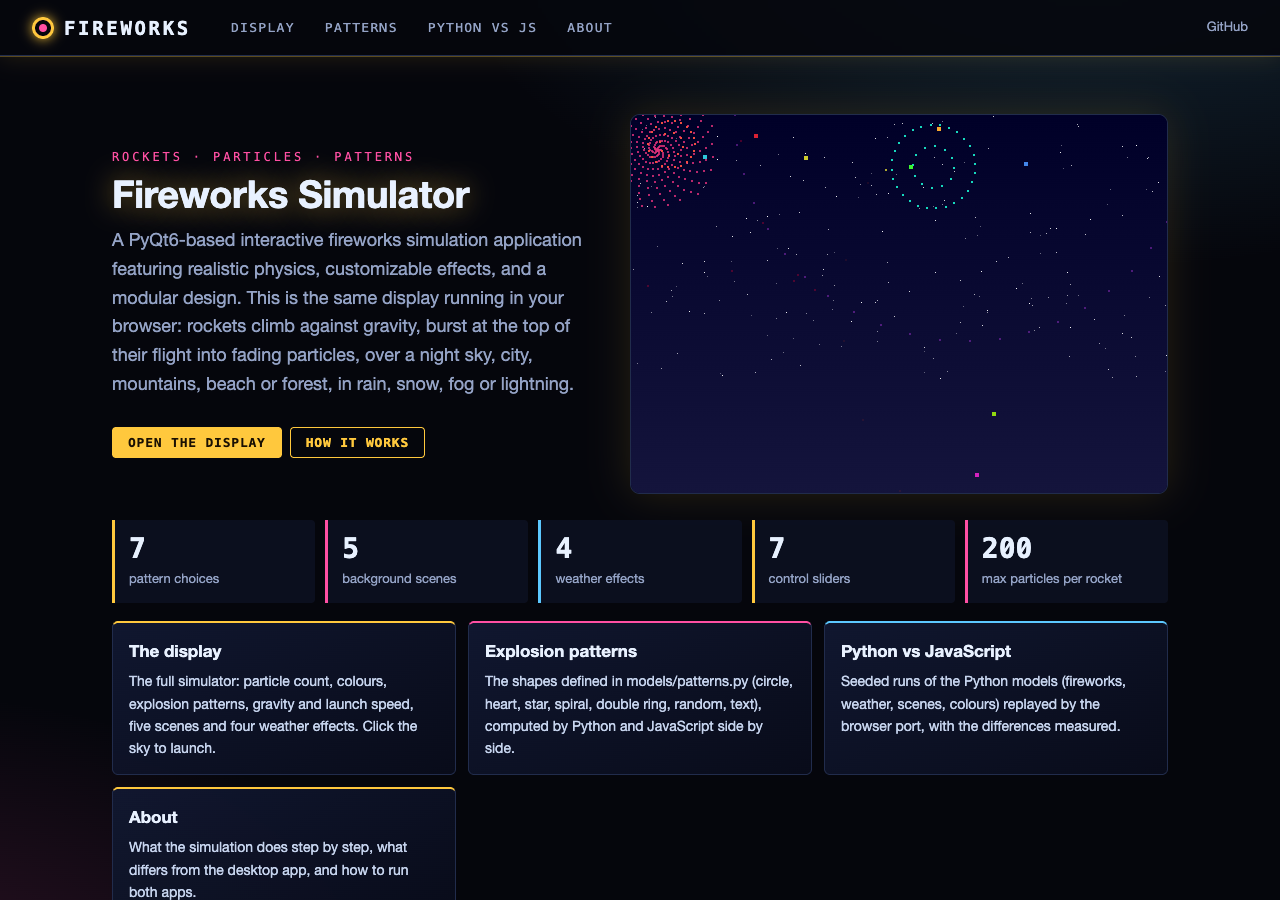
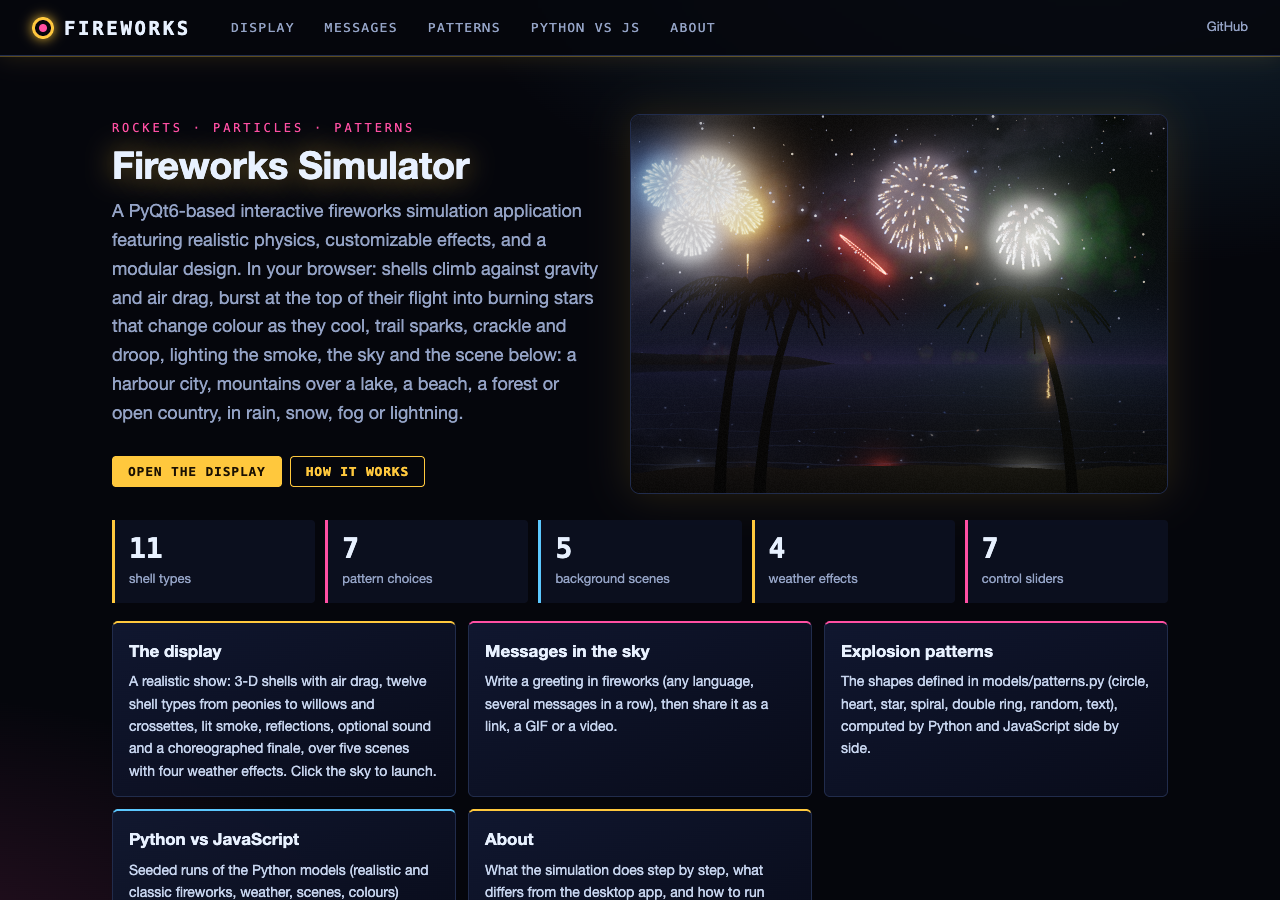
Docs: README (realistic display, messages, exports, desktop renderers), INTERFACE, session log, screenshots and sample GIF

diff --git a/web/static/home.js b/web/static/home.js
@@ -3,7 +3,7 @@ import { route, api, app, list, esc, onLeave } from './core.js';
 import { RealView, reducedMotion } from './real_view.js';
 
 const DOORS = [
-  ['#/show', 'The display', 'A realistic show: 3-D shells with air drag, twelve shell types from peonies to willows and crossettes, lit smoke, reflections, optional sound and a choreographed finale, over five scenes with four weather effects. Click the sky to launch.', 'a'],
+  ['#/show', 'The display', 'A realistic show: 3-D shells with air drag, eleven shell types (plus finale salutes) from peonies to willows and crossettes, lit smoke, reflections, optional sound and a choreographed finale, over five scenes with four weather effects. Click the sky to launch.', 'a'],
   ['#/messages', 'Messages in the sky', 'Write a greeting in fireworks (any language, several messages in a row), then share it as a link, a GIF or a video.', 'b'],
   ['#/patterns', 'Explosion patterns', 'The shapes defined in models/patterns.py (circle, heart, star, spiral, double ring, random, text), computed by Python and JavaScript side by side.', 'b'],
   ['#/verify', 'Python vs JavaScript', 'Seeded runs of the Python models (realistic and classic fireworks, weather, scenes, colours) replayed by the browser, with the differences measured.', 'c'],

diff --git a/INTERFACE.md b/INTERFACE.md
@@ -8,18 +8,28 @@ Flat repo (modules import each other absolutely, e.g. `from models.particle impo
 |------|---------|-----------|
 | `main.py` | Entry point: QApplication, main window | `main()` |
 | `config.py` | Physics constants and window settings (Qt-free at import; QColor made lazily) | `FireworkConfig`, `DisplayConfig`, `DEFAULT_FIREWORK_RGB`, `DEFAULT_BACKGROUND_RGB`, `DEFAULT_LAUNCH_SPEED` |
-| `ui_specs.py` | Qt-free control lists and slider specs, shared by `gui/controls.py` and `web/app.py` | `PATTERNS`, `BACKGROUNDS`, `WEATHER`, `SliderSpec`, `SLIDERS` |
+| `ui_specs.py` | Qt-free control lists and slider specs, shared by `gui/controls.py` and `web/app.py` | `PATTERNS`, `BACKGROUNDS`, `WEATHER`, `RENDERERS`, `SHELL_TYPES`, `SliderSpec`, `SLIDERS` |
 | `models/particle.py` | One spark: velocity, gravity, 100-frame fade | `Particle` |
 | `models/firework.py` | Rocket that climbs and bursts at its apex (gravity, launch speed, pattern) | `Firework` |
 | `models/patterns.py` | Explosion shapes (one burst particle per point, `Firework._explode_pattern`) | `CirclePattern`, `HeartPattern`, `StarPattern`, `SpiralPattern`, `DoubleRingPattern`, `RandomPattern`, `TextPattern` |
+| `models/pyro.py` | Realistic engine (Qt-free): 3-D shells/stars in metres, gravity + quadratic drag, tail sparks, crackle, crossette splits, events; camera geometry | `Sim`, `Star`, `sphere_dirs()`, `DT`, `G`, `FOCAL` |
+| `models/shell_types.py` | Shell recipes and bursts: peony ... multi-break, salute, pattern, message | `TYPES`, `LABELS`, `make_recipe()`, `burst()` |
+| `models/director.py` | Launch schedule: random auto launch, ~40 s finale programme, message shows | `Director`, `finale_cues()` |
+| `models/pyro_colors.py` | Pyrotechnic palette; star colour/brightness over its life (ignition flash, cooling ember, strobe, glitter) | `PALETTE`, `pick_color()`, `star_rgb()` |
 | `models/glyphs.py` | 5 x 7 dot-matrix glyphs A-Z, 0-9 for `TextPattern` (also generated to `web/static/fw_glyphs.js`) | `GLYPHS`, `glyph_points()` |
 | `effects/weather.py` | Rain, snow, fog, lightning (update + Qt drawing) | `RainEffect`, `SnowEffect`, `FogEffect`, `FogLayer`, `LightningEffect`, `LightningBolt` |
 | `effects/backgrounds.py` | Night sky, cityscape, beach, forest scenes | `NightSkyBackground`, `CityscapeBackground`, `BeachBackground`, `ForestBackground` |
 | `effects/mountains.py` | Mountain ranges with snow caps | `MountainsBackground` |
 | `effects/particle_effects.py` | Smoke particles (not used by the app) | `SmokeEffect` |
-| `gui/canvas.py` | Display widget: 60 fps timer, spawning, painting | `FireworksCanvas` |
-| `gui/controls.py` | Control panel (signals) built from `ui_specs` | `ControlPanel` |
-| `gui/main_window.py` | Main window, detachable tabs, menus, QSettings, signal wiring | `FireworksApp`, `DetachableTabWidget` |
+| `gui/canvas.py` | Display widget: 60 fps timer, spawning, painting; `renderer` "Classic" (constructor default) or "Realistic" | `FireworksCanvas` |
+| `gui/canvas_real.py` | Realistic side of the canvas (mixin): settings → RealShow, click launch, finale, messages, `paint_real` | `RealisticMixin`, `TYPE_OF_LABEL` |
+| `gui/real_show.py` | Qt-free realistic state: `Sim` + `Director` + burst lights; maps the classic sliders like the web | `RealShow`, `Light`, `HORIZON`, `BEACH_HORIZON` |
+| `gui/real_painter.py` | QPainter renderer: scene, burst light, fading trail buffer with additive sprites, bloom, beach reflection, weather, vignette | `RealPainter`, `beach_water_path()` |
+| `gui/real_sprites.py` | Soft radial-gradient star sprites cached per quantised colour/size | `SpriteCache` |
+| `gui/text_points.py` | Message text → star points (QPainterPath.addText, staggered grid, rainbow) for `Director.queue_messages` | `text_points()`, `message()`, `clean_text()` |
+| `gui/export.py` | File menu: frame as PNG, 5 s GIF at a fixed time step (optional Pillow) | `save_frame()`, `gif_frames()`, `export_gif()` |
+| `gui/controls.py` | Control panel (signals) built from `ui_specs`; Show group: renderer, shell type, finale, message | `ControlPanel` |
+| `gui/main_window.py` | Main window, detachable tabs, menus (incl. PNG/GIF export), QSettings, signal wiring | `FireworksApp`, `DetachableTabWidget` |
 | `utils/` | Colour (`ColorUtils.random_color`), math, physics, timing helpers | `ColorUtils`, `MathUtils`, `PhysicsUtils`, `TimeUtils` |
 | `standalone/fireworks_app.py` | Older single-file version | — |
 
@@ -27,18 +37,32 @@ Flat repo (modules import each other absolutely, e.g. `from models.particle impo
 
 | File | Purpose | Key names |
 |------|---------|-----------|
-| `app.py` | FastAPI: serves `static/`, API `/api/info`, `/defaults`, `/patterns`, `/reference`, `/reference/{name}`, `/reference/scenes` | `app`, `STATIC`, `STATIC_ENDPOINTS` |
+| `app.py` | FastAPI: serves `static/`, API `/api/info`, `/defaults`, `/patterns`, `/reference`, `/reference/{name}`, `/reference/scenes`, `/reference/pyro` | `app`, `STATIC`, `STATIC_ENDPOINTS` |
+| `reference_pyro.py` | Seeded runs of the realistic engine (finale, auto, every type, heart pattern, message) | `PYRO_CASES`, `run_pyro()`, `message_points()`, `pyro_fixture()` |
 | `reference.py` | Seeded runs of the real models with a mulberry32 `random` stand-in shared with JS | `PyRand`, `seeded()`, `run_show()`, `pattern_points()`, `weather_runs()`, `background_scenes()`, `fixture()` |
 | `static/core.js`, `style.css` (kit) | Router, `api()`, `slider()`, `animate()`, `rng()`; shared theme | — |
 | `static/fw_rand.js` | Python-`random`-shaped seeded RNG | `pyRand` |
+| `static/fw_pyro.js`, `fw_shells.js`, `fw_director.js`, `fw_palette.js` | JS copies of `models/pyro.py`, `shell_types.py`, `director.py`, `pyro_colors.py` (same random order) | `Sim`, `Star`, `burst`, `Director`, `starRGB` |
+| `static/fw_reference_pyro.js` | Replays the realistic reference runs (Verify page, node test) | `runPyro`, `messagePoints` |
+| `static/real_view.js` | Realistic display: fixed-step loop, settings from the panel's `Show`, adaptive resolution/particle budget, events to listeners | `RealView`, `reducedMotion` |
+| `static/fw_render_gl.js`, `fw_shaders.js` | WebGL2 renderer: HDR point sprites with fading trails, lit smoke, 3-level bloom, composite (scene light, water reflections, tone map, vignette, grain) | `GLRenderer` |
+| `static/fw_render_2d.js` | Canvas 2D fallback of the same layers | `Canvas2DRenderer` |
+| `static/fw_atmos.js` | Camera projection, particle list, burst lights, smoke puffs | `Camera`, `Atmos`, `buildParticles`, `STRIDE` |
+| `static/fw_scenery.js`, `fw_scenery_parts.js`, `fw_noise.js` | Seeded procedural scenery painted once per size into back/front/material canvases (sky, stars, Milky Way, ridgelines, skyline, water, trees) | `buildScenery`, `SCENERY_HORIZON` |
+| `static/fw_audio.js` | WebAudio launch thumps, booms, crackles with distance delay; MediaStream for video | `FireworkAudio` |
+| `static/fw_text.js`, `msg_link.js` | Message text → star points (real fonts, wrap/fit, colour modes); validated share-link encode/decode | `textPoints`, `splitMessages`, `encodeQuery`, `decodeQuery` |
+| `static/fw_export.js`, `export_panel.js`, `gif_encoder.js`, `gif_worker.js` | PNG/WebP, GIF (own LZW encoder, median-cut palette, frame differencing, Web Worker), MP4/WebM via MediaRecorder; Web Share | `recordGIF`, `recordVideo`, `GifWriter`, `encodeGIF`, `buildExportPanel` |
+| `static/show_real_panel.js` | Display page "Show" group: renderer, shell type, finale, sound | `buildShowGroup`, `RENDERERS` |
+| `static/messages.js` | Page `#/messages`: presets, options, live preview, link, exports | — |
 | `static/fw_engine.js` | Port of particle/firework/canvas logic (+ web-only pattern bursts) | `CONFIG`, `Particle`, `Firework`, `Show` |
 | `static/fw_glyphs.js` | Generated copy of `models/glyphs.py` (do not edit) | `GLYPHS` |
 | `static/fw_patterns.js`, `fw_weather.js`, `fw_backgrounds.js`, `fw_color.js` | Ports of patterns, weather, scenes, `random_color` | `makePattern`, `makeWeather`, `makeBackground`, `randomColor` |
 | `static/fw_reference.js` | Replays the reference runs, `maxDiff` | `runShow`, `weatherRuns`, `backgroundScenes` |
-| `static/show_view.js`, `show_panel.js` | Canvas display + loop; control panel DOM | `ShowView`, `paint`, `buildPanel` |
+| `static/show_view.js`, `show_panel.js` | Classic canvas display + loop; control panel DOM (used by both renderers) | `ShowView`, `paint`, `buildPanel` |
 | `static/home.js`, `show.js`, `patterns.js`, `verify.js`, `about.js` | Pages `#/`, `#/show`, `#/patterns`, `#/verify`, `#/about` | — |
 | `static/main.js`, `static_api.js`, `index.html`, `style_app.css`, `icon.svg` | Entry, static-site API, shell, accent theme | — |
-| `static/fw_engine.test.mjs`, `fw_scenes.test.mjs` | Node tests vs `tests/fixtures/fw_reference.json` | — |
+| `static/fw_engine.test.mjs`, `fw_scenes.test.mjs`, `fw_pyro.test.mjs` | Node tests vs `tests/fixtures/fw_reference.json` | — |
+| `static/fw_text.test.mjs`, `gif_encoder.test.mjs` | Node tests: message text and share link; GIF encoder (own decoder, round trips) | — |
 
 ## Scripts, tests, CI
 
@@ -50,7 +74,10 @@ Flat repo (modules import each other absolutely, e.g. `from models.particle impo
 | `scripts/make_js_fixtures.py` | Regenerate `tests/fixtures/fw_reference.json` and `web/static/fw_glyphs.js` (needs PyQt6) |
 | `tests/test_config.py`, `test_math_utils.py`, `test_patterns.py`, `test_physics.py` | Pure-logic tests (need PyQt6 via package imports) |
 | `tests/test_weather.py`, `test_canvas.py`, `test_backgrounds.py` | Regression tests of the 2026-11-11 fixes (offscreen Qt) |
-| `tests/test_web.py` | API, static build, fixture current, node tests (runs without Qt) |
+| `tests/test_pyro.py` | Realistic engine physics and shell behaviour (Qt-free) |
+| `tests/test_real_canvas.py` | Desktop realistic mode, text sampler, PNG/GIF export (offscreen Qt) |
+| `tests/conftest.py` | Points the main window's QSettings at a temp INI file in every test |
+| `tests/test_web.py` | API, static build, fixture current (realistic runs skipped on CI), node tests (runs without Qt) |
 | `.github/workflows/pages.yml` | Test, build and publish the static site on push to `main` |
 
 ## Data flow
@@ -60,6 +87,8 @@ main.py ─▶ FireworksApp ─┬─ ControlPanel (ui_specs) ─ signals ─▶
                          └─ FireworksCanvas ─ QTimer 16 ms ─▶ Firework.update() / Particle.update(), weather.update()
                                               paintEvent ─▶ background.draw, weather.draw, rockets + particles
 Web: run_web.py ─▶ web.app ─ /api/defaults (config, ui_specs), /api/patterns, /api/reference (web/reference.py)
-     browser: show.js ─▶ ShowView (fw_engine Show + fw_backgrounds + fw_weather) ─▶ canvas; show_panel.js controls
+     browser: show.js ─▶ RealView (fw_director ─▶ fw_pyro/fw_shells; fw_scenery; fw_atmos ─▶ GLRenderer | Canvas2DRenderer)
+              or ShowView (classic: fw_engine Show + fw_backgrounds + fw_weather) ─▶ canvas; show_panel.js controls
+              messages.js ─▶ fw_text points ─▶ Director.queueMessages; export_panel ─▶ fw_export (gif_worker, MediaRecorder)
      scripts/build_static.py ─▶ site/ (static/ + api/*.json) ─▶ GitHub Pages (static_api.js answers api())
 ```

diff --git a/README.md b/README.md
@@ -7,6 +7,13 @@ A PyQt6-based interactive fireworks simulation application featuring realistic p
 ## Features
 
 ### Firework Effects
+- Two renderers (Renderer box in the control panel): **Realistic** (default) and **Classic**
+  - Realistic: 3-D shells and stars in metres under gravity and quadratic air drag (`models/pyro.py`), 11 shell types
+    (`models/shell_types.py`), a Shell type choice, a choreographed finale (Start finale) and text messages written
+    in stars (`models/director.py`, `gui/text_points.py`), drawn with additive glows, exposure trails, bloom and burst
+    light (`gui/real_painter.py`)
+  - Classic: the original particle model below
+- File menu: Save frame as PNG; Export GIF (5 s, needs `pip install Pillow`)
 - Realistic particle physics simulation
 - Customizable particle count and colors
 - Explosion pattern shapes (`models/patterns.py`), selectable in the control panel:
@@ -74,17 +81,35 @@ python main.py
 ## Web version
 
 The display also runs in the browser: **https://gddickinson.github.io/fireworks/** (GitHub Pages, published from
-`main` by `.github/workflows/pages.yml`). It is a JavaScript port of the models (rockets, particles, patterns,
-weather, scenes) with the same controls, checked number for number against seeded runs of the Python code.
+`main` by `.github/workflows/pages.yml`).
+
+![A message written in fireworks (GIF exported by the web app)](docs/img/message.gif)
+
+**Realistic display (default).** Shells and stars move in 3-D metres under gravity and quadratic air drag
+(`models/pyro.py`), burst at the top of their climb into one of 11 shell types (peony, chrysanthemum, willow, kamuro,
+palm, crossette, ring, horsetail, crackle, strobe, multi-break; plus salutes in the finale; `models/shell_types.py`), with a random show,
+a choreographed ~40 s finale and message shows (`models/director.py`). Stars flash white-hot, burn in the colours of
+real emitters and cool to embers; tails throw sparks, crossettes split, crackles pop. The JavaScript copy
+(`web/static/fw_pyro.js`, `fw_shells.js`, `fw_director.js`) is checked against seeded Python runs. The browser draws it
+with WebGL2 (HDR stars, exposure trails, bloom, burst light on the scene and the sky, smoke lit by the bursts,
+rippled reflections on water, tone mapping, vignette, grain; a 2D-canvas fallback without WebGL) over scenery painted
+from seeded noise: night skies with airglow and light pollution, star fields and the Milky Way, fractal ridgelines in
+haze, a harbour skyline, a lake, the sea, forests. Resolution and particle count adapt to keep 60 fps on phones.
+Optional synthesised sound with the delay of the sound's travel. **Classic display**: the JavaScript port of the
+desktop app's original models, checked number for number.
+
+**Messages**: words in the sky in any font and script the browser has (several messages in a row, colours per
+letter, gradient or rainbow, hold time), shareable as a link. **Export & share**: PNG/WebP, animated GIF (own
+encoder in a Web Worker, frame differencing) and MP4/WebM video (MediaRecorder), all in the browser.
 
 | | |
 |---|---|
-| ![Home](docs/img/home.png) | ![Display: beach, fog, heart pattern](docs/img/show_beach_heart.png) |
-| ![Display: mountains, lightning, star pattern](docs/img/show_mountains_star.png) | ![Python vs JavaScript](docs/img/verify.png) |
+| ![Display: harbour city, realistic renderer](docs/img/show.png) | ![Messages page](docs/img/messages.png) |
+| ![Display: mountains and lake at night](docs/img/show_mountains.png) | ![Python vs JavaScript](docs/img/verify.png) |
 
-Pages: **Display** (the simulator; click the sky to launch, L launch, Space pause, T controls, F fullscreen,
-R reset, S save settings), **Patterns** (each shape from `models/patterns.py`, Python and JS points overlaid),
-**Python vs JS** (seeded reference runs replayed in the browser), **About**.
+Pages: **Display** (click the sky to launch, L launch, G finale, Space pause, T controls, F fullscreen, R reset,
+S save settings), **Messages**, **Patterns** (each shape from `models/patterns.py`, Python and JS points overlaid),
+**Python vs JS** (seeded reference runs of both engines replayed in the browser), **About**.
 
 ### Run the web app
 ```bash

diff --git a/SESSION_LOG.md b/SESSION_LOG.md
@@ -32,3 +32,29 @@
   screenshots static/base all ok, phone 0 px; desktop text burst checked offscreen.
 - Snow-cap flicker fixed (4497c37): cap widths drawn once per peak at scene generation (desktop and web,
   seeded check covers them); test_snow_caps_are_fixed_per_peak_not_redrawn_at_random. Suite 79 passed.
+
+## 2026-11-16 -- Realistic overhaul: engine, renderer, scenery, messages, sound, exports (branch `web-interface`)
+- Realistic engine, Qt-free Python with a JS copy replaying seeded Python runs to <1e-9 relative
+  (fw_pyro.test.mjs, Verify page): `models/pyro.py` (3-D metres, gravity + quadratic drag relative to the wind,
+  tail sparks, crackle pops, crossette splits), `shell_types.py` (11 types + salutes, pattern and message shells),
+  `director.py` (auto, ~40 s finale, message queue), `pyro_colors.py`. Fixture regenerated (`pyro` section); the
+  fixture-currency test skips that section on CI (apex detection after libm maths is a discrete choice).
+- Web: realistic display is the default (`real_view.js`): WebGL2 HDR renderer (`fw_render_gl.js`, `fw_shaders.js`)
+  with trails, lit smoke, bloom, scene/sky light, water reflections, auto exposure, vignette, grain; Canvas 2D
+  fallback; adaptive resolution/particle budget; reduced motion = still frame + Play, no strobe/flash.
+  Classic (verified desktop port) kept as a renderer option.
+- Scenery rewritten (`fw_scenery*.js`, `fw_noise.js`, seeded, painted once per size): airglow/light pollution,
+  magnitude-distributed stars, Milky Way with dust lanes, fractal ridgelines with haze and snow, harbour skyline
+  (setbacks, spires, antennas with aviation lights, sparse warm/cool windows, street lights), lake/sea with rippled
+  reflections, conifers/broadleaf/palms, fireflies. The classic backgrounds (and their seeded checks) are unchanged.
+- Messages page (`messages.js`, `fw_text.js`, `msg_link.js`): real fonts, wrap/fit, Unicode, colour modes, hold,
+  sequences, presets, validated share link. Sound (`fw_audio.js`, off by default, distance delay).
+- Exports (`fw_export.js`, `export_panel.js`, `gif_encoder.js`, `gif_worker.js`): PNG/WebP, GIF (own encoder,
+  median-cut palette, frame differencing, worker), MP4/WebM via MediaRecorder, fixed-time-step capture, Web Share.
+- Desktop: Realistic renderer (default in the window; `gui/canvas_real.py`, `real_show.py`, `real_painter.py`,
+  `real_sprites.py`), shell type, finale, message text (`gui/text_points.py`), PNG/GIF export (`gui/export.py`,
+  optional Pillow). Desktop keeps the classic backgrounds. `tests/conftest.py` redirects QSettings in all tests;
+  George's plist unchanged (sha1 checked).
+- Checks: pytest 101 passed; node 11+10+11+4+7; screenshots --static (10 routes) and --base (6 routes) all ok,
+  phone 0 px (also show/messages at 390 px). Frame time: 16.7 ms median (vsync-bound), JS work 0.5-0.8 ms/frame
+  WebGL, 2 ms Canvas2D, at up to 12.5k stars (headless Chrome, M1 Max).
